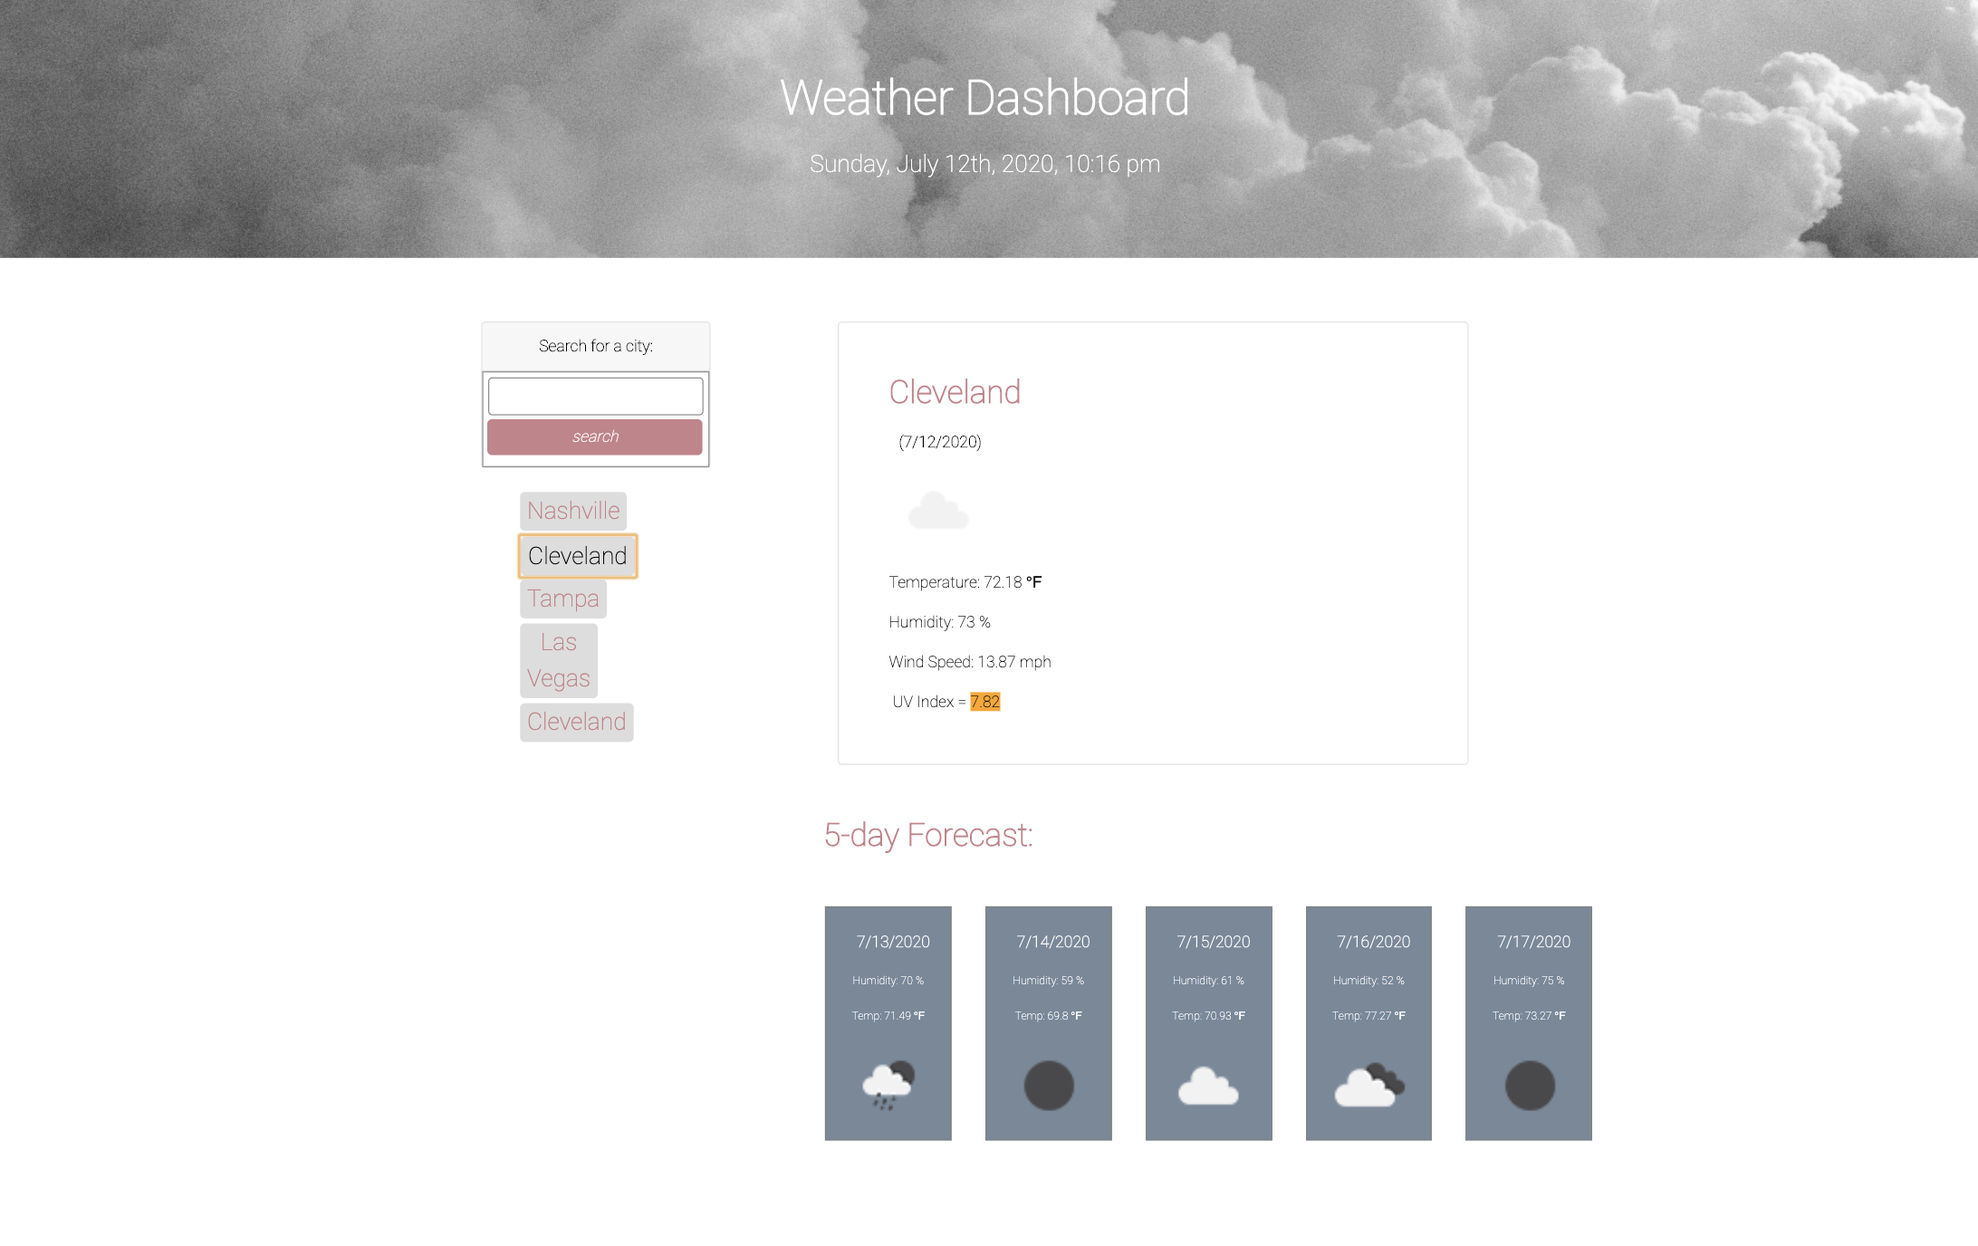
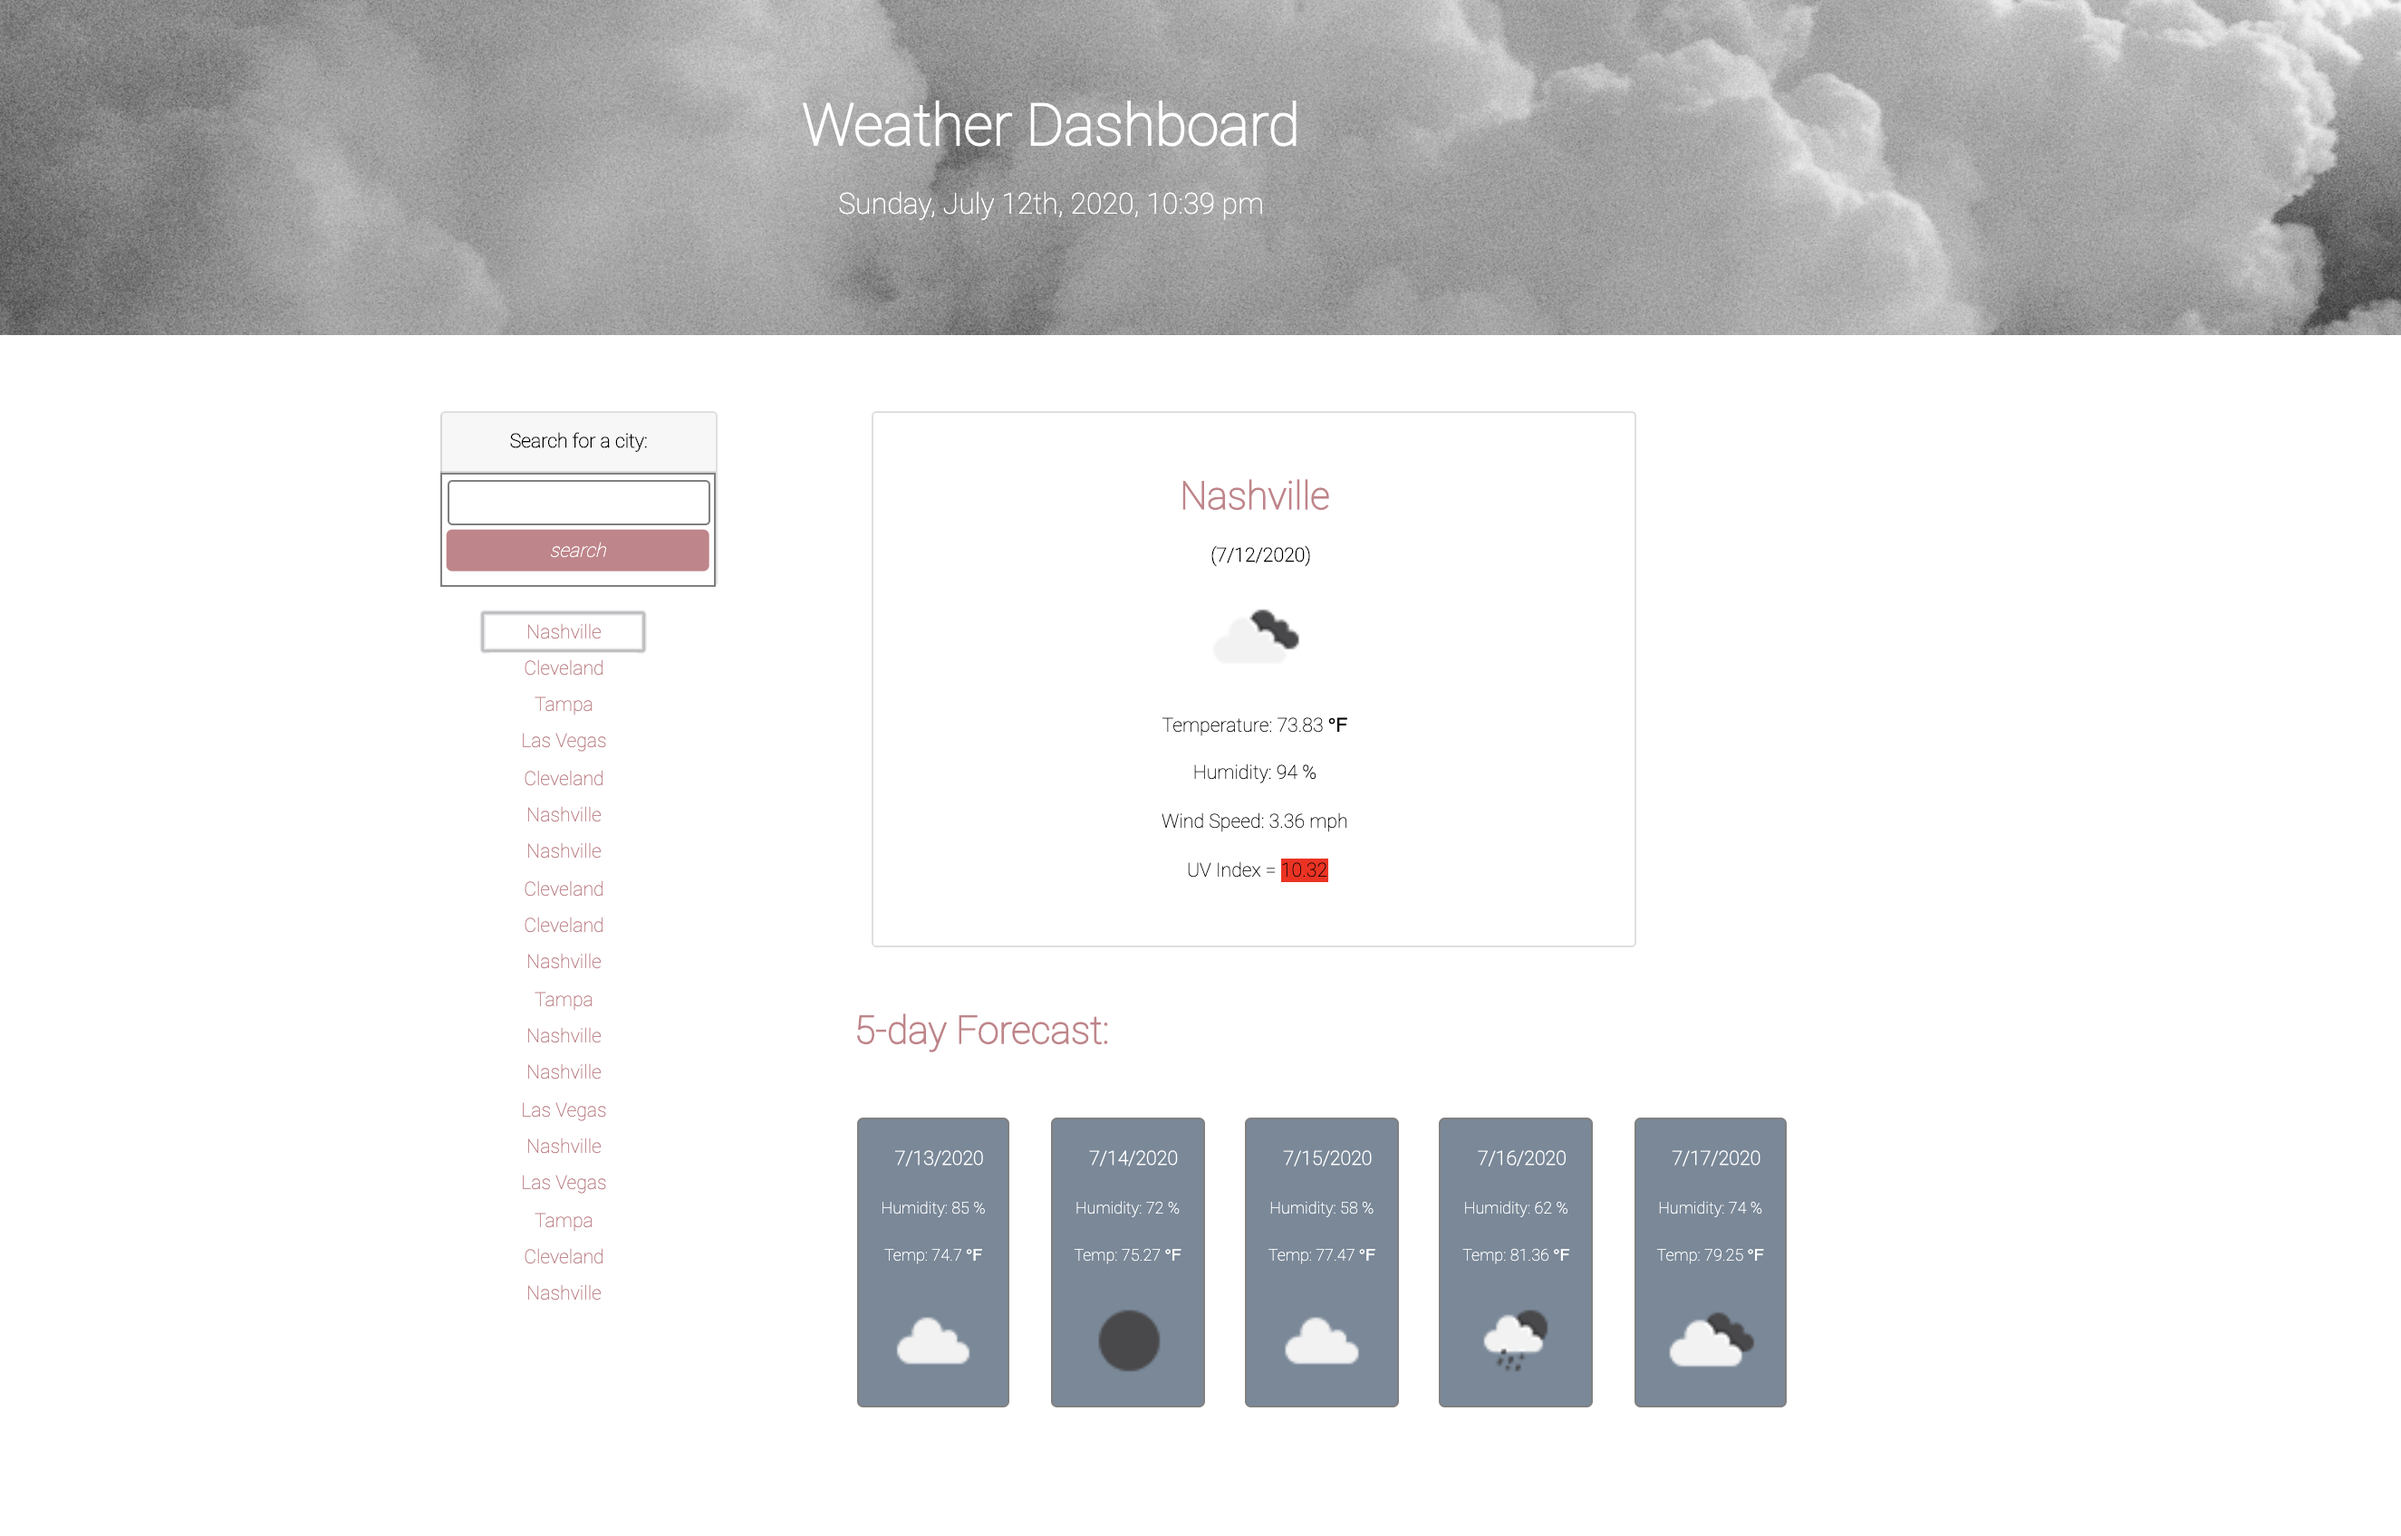
made slight formatting adjustments

diff --git a/assets/css/style.css b/assets/css/style.css
@@ -75,7 +75,7 @@ h4, h6  {
   text-decoration: none;
   display: block;
   margin: 5px 0;
-  width: auto;
+  width: 5000%;
   border-radius: var(--border-radius);
   color: var(--tertiary);
   border: none;
@@ -114,7 +114,8 @@ h4, h6  {
 
 .forecast {
   margin-top: 50px;
-  margin-bottom: 50px
+  margin-bottom: 50px;
+  text-align: center;
 }
 .currentDay {
   text-align: center;
@@ -134,6 +135,7 @@ h4, h6  {
   background-color: rgb(119,136,153);
   color: white;
   font-weight: strong;
+  border-radius: 5px;
 }
 .card-text {
   font-size: .7rem;

diff --git a/index.html b/index.html
@@ -39,7 +39,7 @@
         </div>
         <!--Container with city, date, and results-->
          <div class="hide forecast-box p-4 p-lg-3 m-5 col-7">
-           <div class="card" id="icon" style="padding: 50px">
+           <div class="card" id="icon" style="padding: 50px; text-align: center">
             
             <div class="card-title">
               <h2 id="cityName"></h2>
